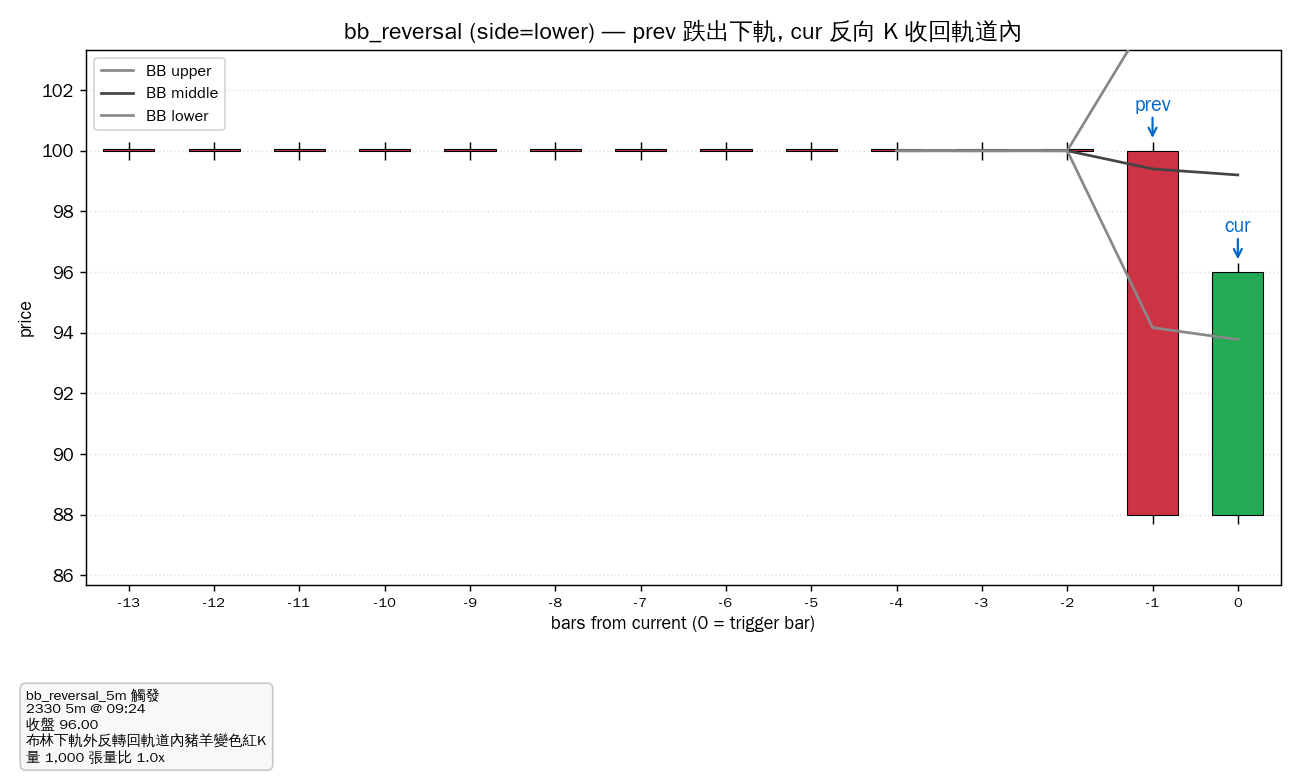
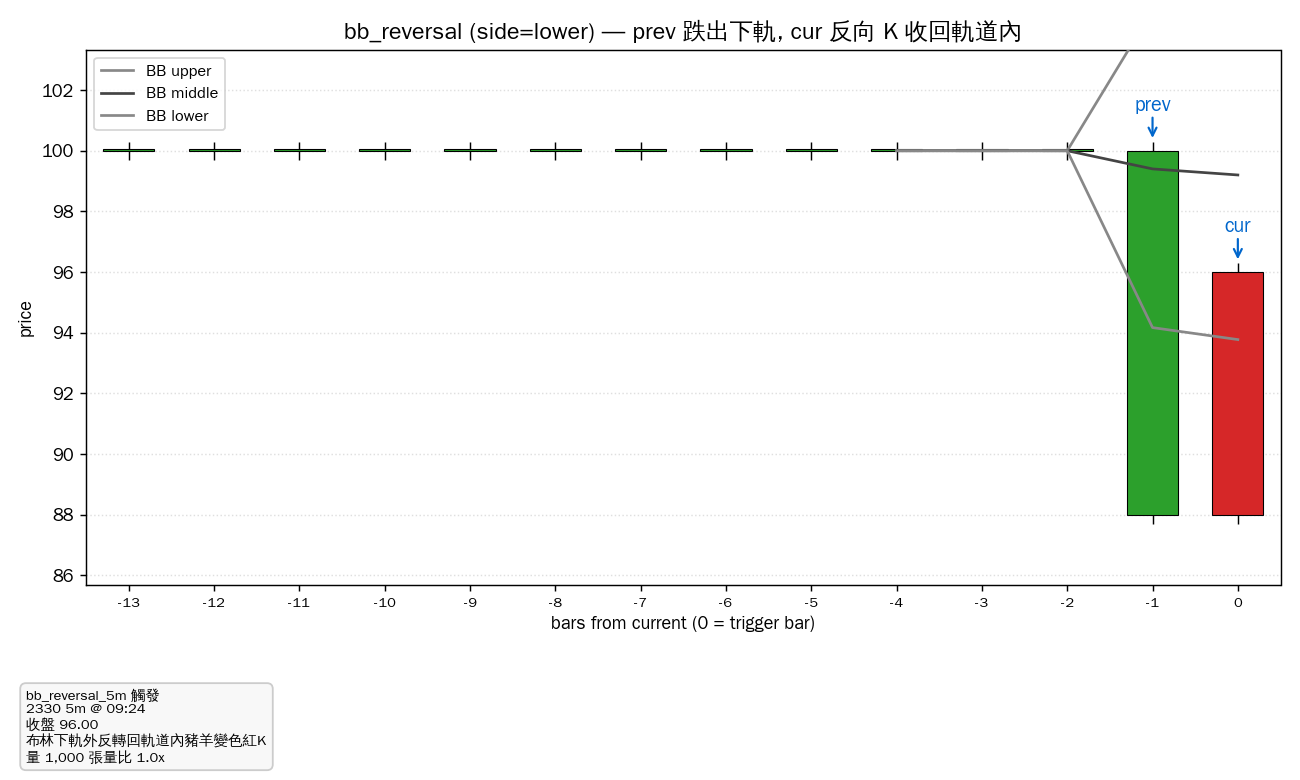
fix(charts): use TW candlestick colour convention
In Taiwan / most Asian markets red bodies mark bullish bars (close > open,
紅K) and green bodies mark bearish bars (close < open, 黑K). The
previous Western-style mapping (green=bullish, red=bearish) was the
opposite, which made the charts confusing.

Re-render all 6 PNGs with the corrected palette.

Changed region(s): [[0.8615, 0.1846, 0.9846, 0.6769]]

diff --git a/scripts/rule_charts.py b/scripts/rule_charts.py
@@ -84,8 +84,9 @@ def plot_candles(
 
     width = 0.6
     for i, row in df.iterrows():
-        is_green = row["close"] > row["open"]
-        color = "#22aa55" if is_green else "#cc3344"
+        is_bullish = row["close"] > row["open"]   # 紅K
+        # TW convention: 紅K (close > open) = red body; 黑K (close < open) = green body
+        color = "#d62728" if is_bullish else "#2ca02c"
         # wick
         ax.vlines(i, row["low"], row["high"], color="black", linewidth=0.8, zorder=2)
         # body
